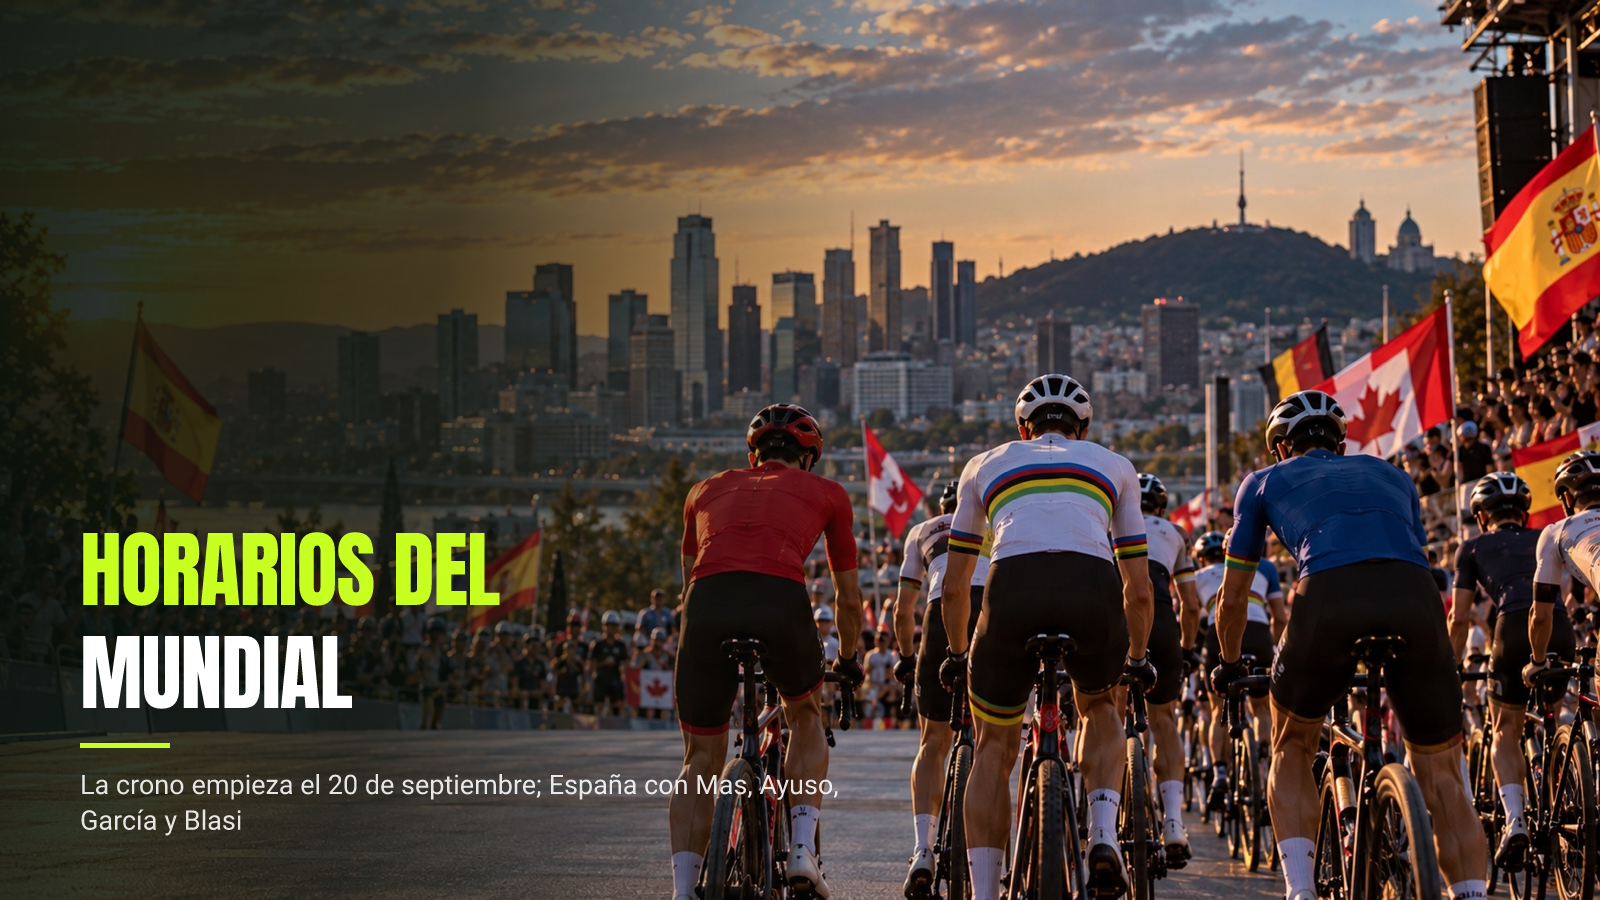
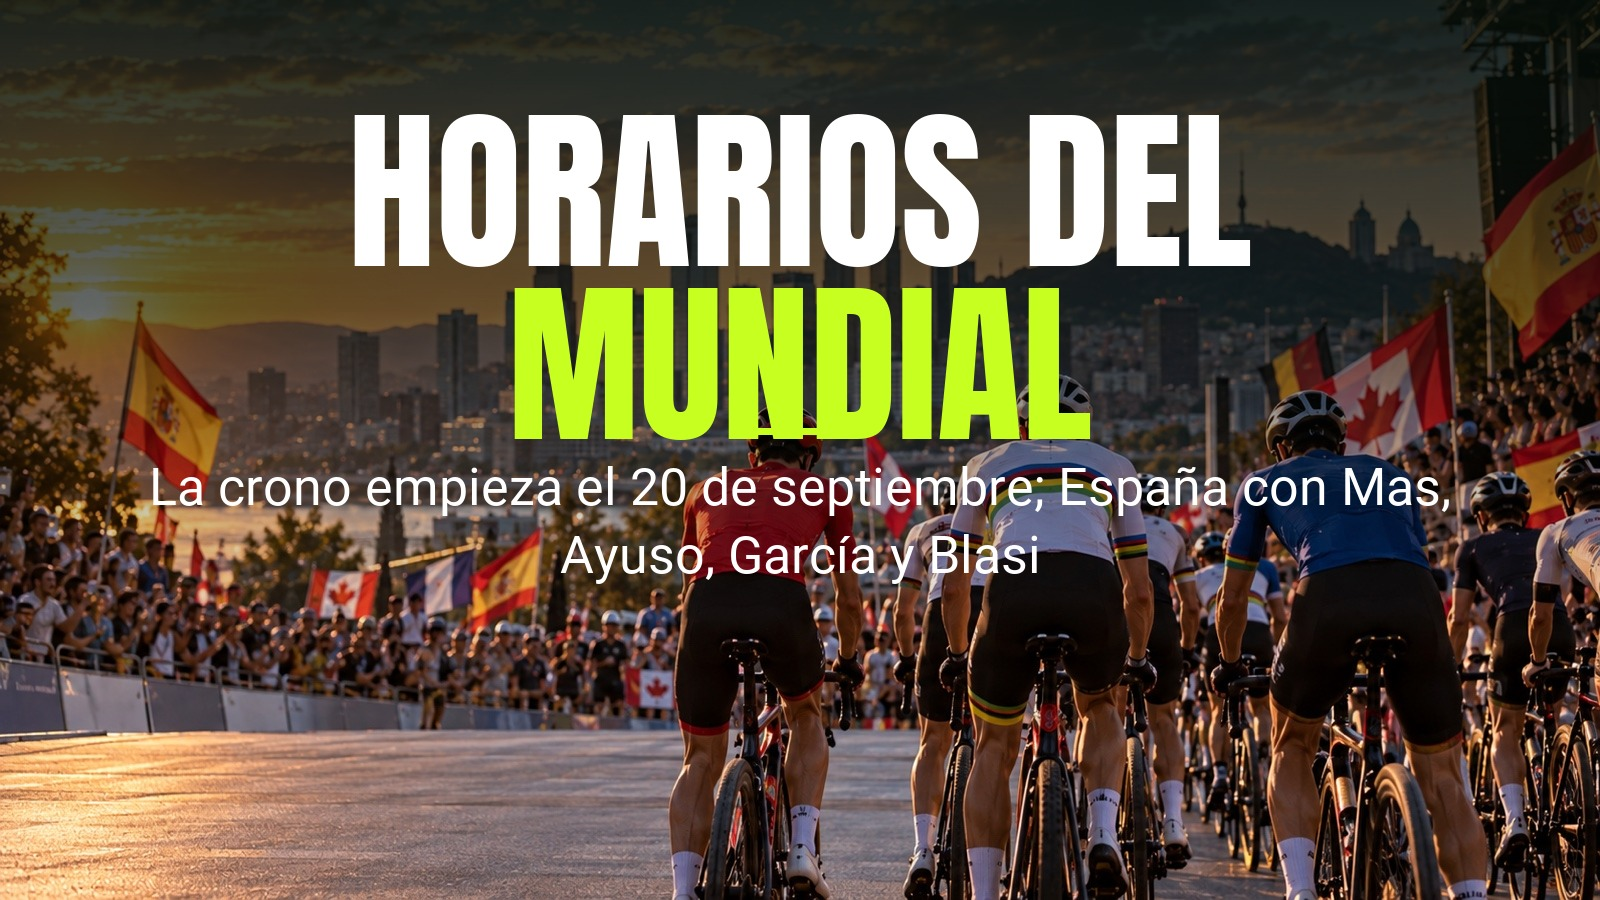
Carátulas: titular grande centro-superior estilo "espectacular"
El texto horneado en las fotos de portada se veía chico y pegado
abajo-izquierda. Rediseña /api/og-cover: título ~2x más grande (con
auto-ajuste según el largo de la línea, min 108px/max 176px), bajada
~2x más grande, ambos centrados arriba; el degradado de contraste pasa
de lateral a vertical (oscuro arriba) para acompañar la nueva posición.

Regenera la portada de "Horarios del Mundial" como prueba del nuevo
diseño (público-generada localmente con un script Python/PIL — ver
nota en la respuesta al usuario sobre un bug pre-existente y no
relacionado en /api/og-cover que impide por ahora incrustar fotos vía
next/og en este entorno; el código de /api/og-cover queda listo para
cuando ese bug se resuelva).

diff --git a/src/app/api/og-cover/route.tsx b/src/app/api/og-cover/route.tsx
@@ -49,6 +49,16 @@ function parseLines(param: string): TitleLine[] {
 }
 
 /**
+ * Título grande (estilo "espectacular"): tamaño base ~2.1x el anterior
+ * (84px → 176px), reducido solo si la línea más larga no cabría en el
+ * ancho disponible — evita tener que ajustar a mano cada titular.
+ */
+function titleFontSize(lines: TitleLine[]): number {
+  const longest = Math.max(...lines.map((l) => l.text.length), 1)
+  return Math.round(Math.min(176, Math.max(108, 2500 / longest)))
+}
+
+/**
  * Compone el titular y la bajada reales sobre una imagen de fondo ya
  * terminada (foto generada con IA o banner propio) — nunca modifica
  * la imagen de fondo en sí, solo agrega texto encima siguiendo la
@@ -62,6 +72,10 @@ function parseLines(param: string): TitleLine[] {
  * ver docs/SOCIAL-PREVIEW.md), se usa un fondo degradado propio en vez
  * de una imagen — sigue generándose una sola vez en dev y guardándose
  * como archivo estático, nunca en vivo en producción.
+ *
+ * Texto anclado centro-superior a tamaño "espectacular" (2026-09-16,
+ * feedback: se veía chico y pegado abajo-izquierda) — el degradado de
+ * contraste pasó de lateral a vertical (oscuro arriba) para acompañar.
  */
 export async function GET(request: Request) {
   const { searchParams, origin } = new URL(request.url)
@@ -117,28 +131,29 @@ export async function GET(request: Request) {
               height: HEIGHT,
               display: 'flex',
               background:
-                'linear-gradient(100deg, rgba(7,17,11,0.92) 0%, rgba(7,17,11,0.75) 28%, rgba(7,17,11,0.15) 52%, rgba(7,17,11,0) 68%)',
+                'linear-gradient(180deg, rgba(7,17,11,0.88) 0%, rgba(7,17,11,0.62) 34%, rgba(7,17,11,0.18) 58%, rgba(7,17,11,0) 74%)',
             }}
           />
         )}
         <div
           style={{
             position: 'absolute',
+            top: '6%',
             left: '5%',
-            right: '45%',
-            bottom: '7%',
+            right: '5%',
             display: 'flex',
             flexDirection: 'column',
+            alignItems: 'center',
           }}
         >
-          <div style={{ display: 'flex', flexDirection: 'column', lineHeight: 0.98 }}>
+          <div style={{ display: 'flex', flexDirection: 'column', alignItems: 'center', lineHeight: 0.96 }}>
             {lines.map((line, i) => (
               <div
                 key={i}
                 style={{
                   display: 'flex',
                   fontFamily: 'Anton',
-                  fontSize: 84,
+                  fontSize: titleFontSize(lines),
                   color: line.color,
                   textTransform: 'uppercase',
                   letterSpacing: -1,
@@ -149,9 +164,18 @@ export async function GET(request: Request) {
             ))}
           </div>
           {subtitle && (
-            <div style={{ display: 'flex', flexDirection: 'column' }}>
-              <div style={{ display: 'flex', width: 90, height: 5, background: LIME, marginTop: 22, marginBottom: 18 }} />
-              <div style={{ display: 'flex', fontFamily: 'Inter, InterExt', fontSize: 27, color: 'rgba(255,255,255,0.88)', lineHeight: 1.35 }}>
+            <div style={{ display: 'flex', flexDirection: 'column', alignItems: 'center' }}>
+              <div style={{ display: 'flex', width: 130, height: 6, background: LIME, marginTop: 28, marginBottom: 22 }} />
+              <div
+                style={{
+                  display: 'flex',
+                  fontFamily: 'Inter, InterExt',
+                  fontSize: 52,
+                  color: 'rgba(255,255,255,0.92)',
+                  lineHeight: 1.3,
+                  textAlign: 'center',
+                }}
+              >
                 {subtitle}
               </div>
             </div>
